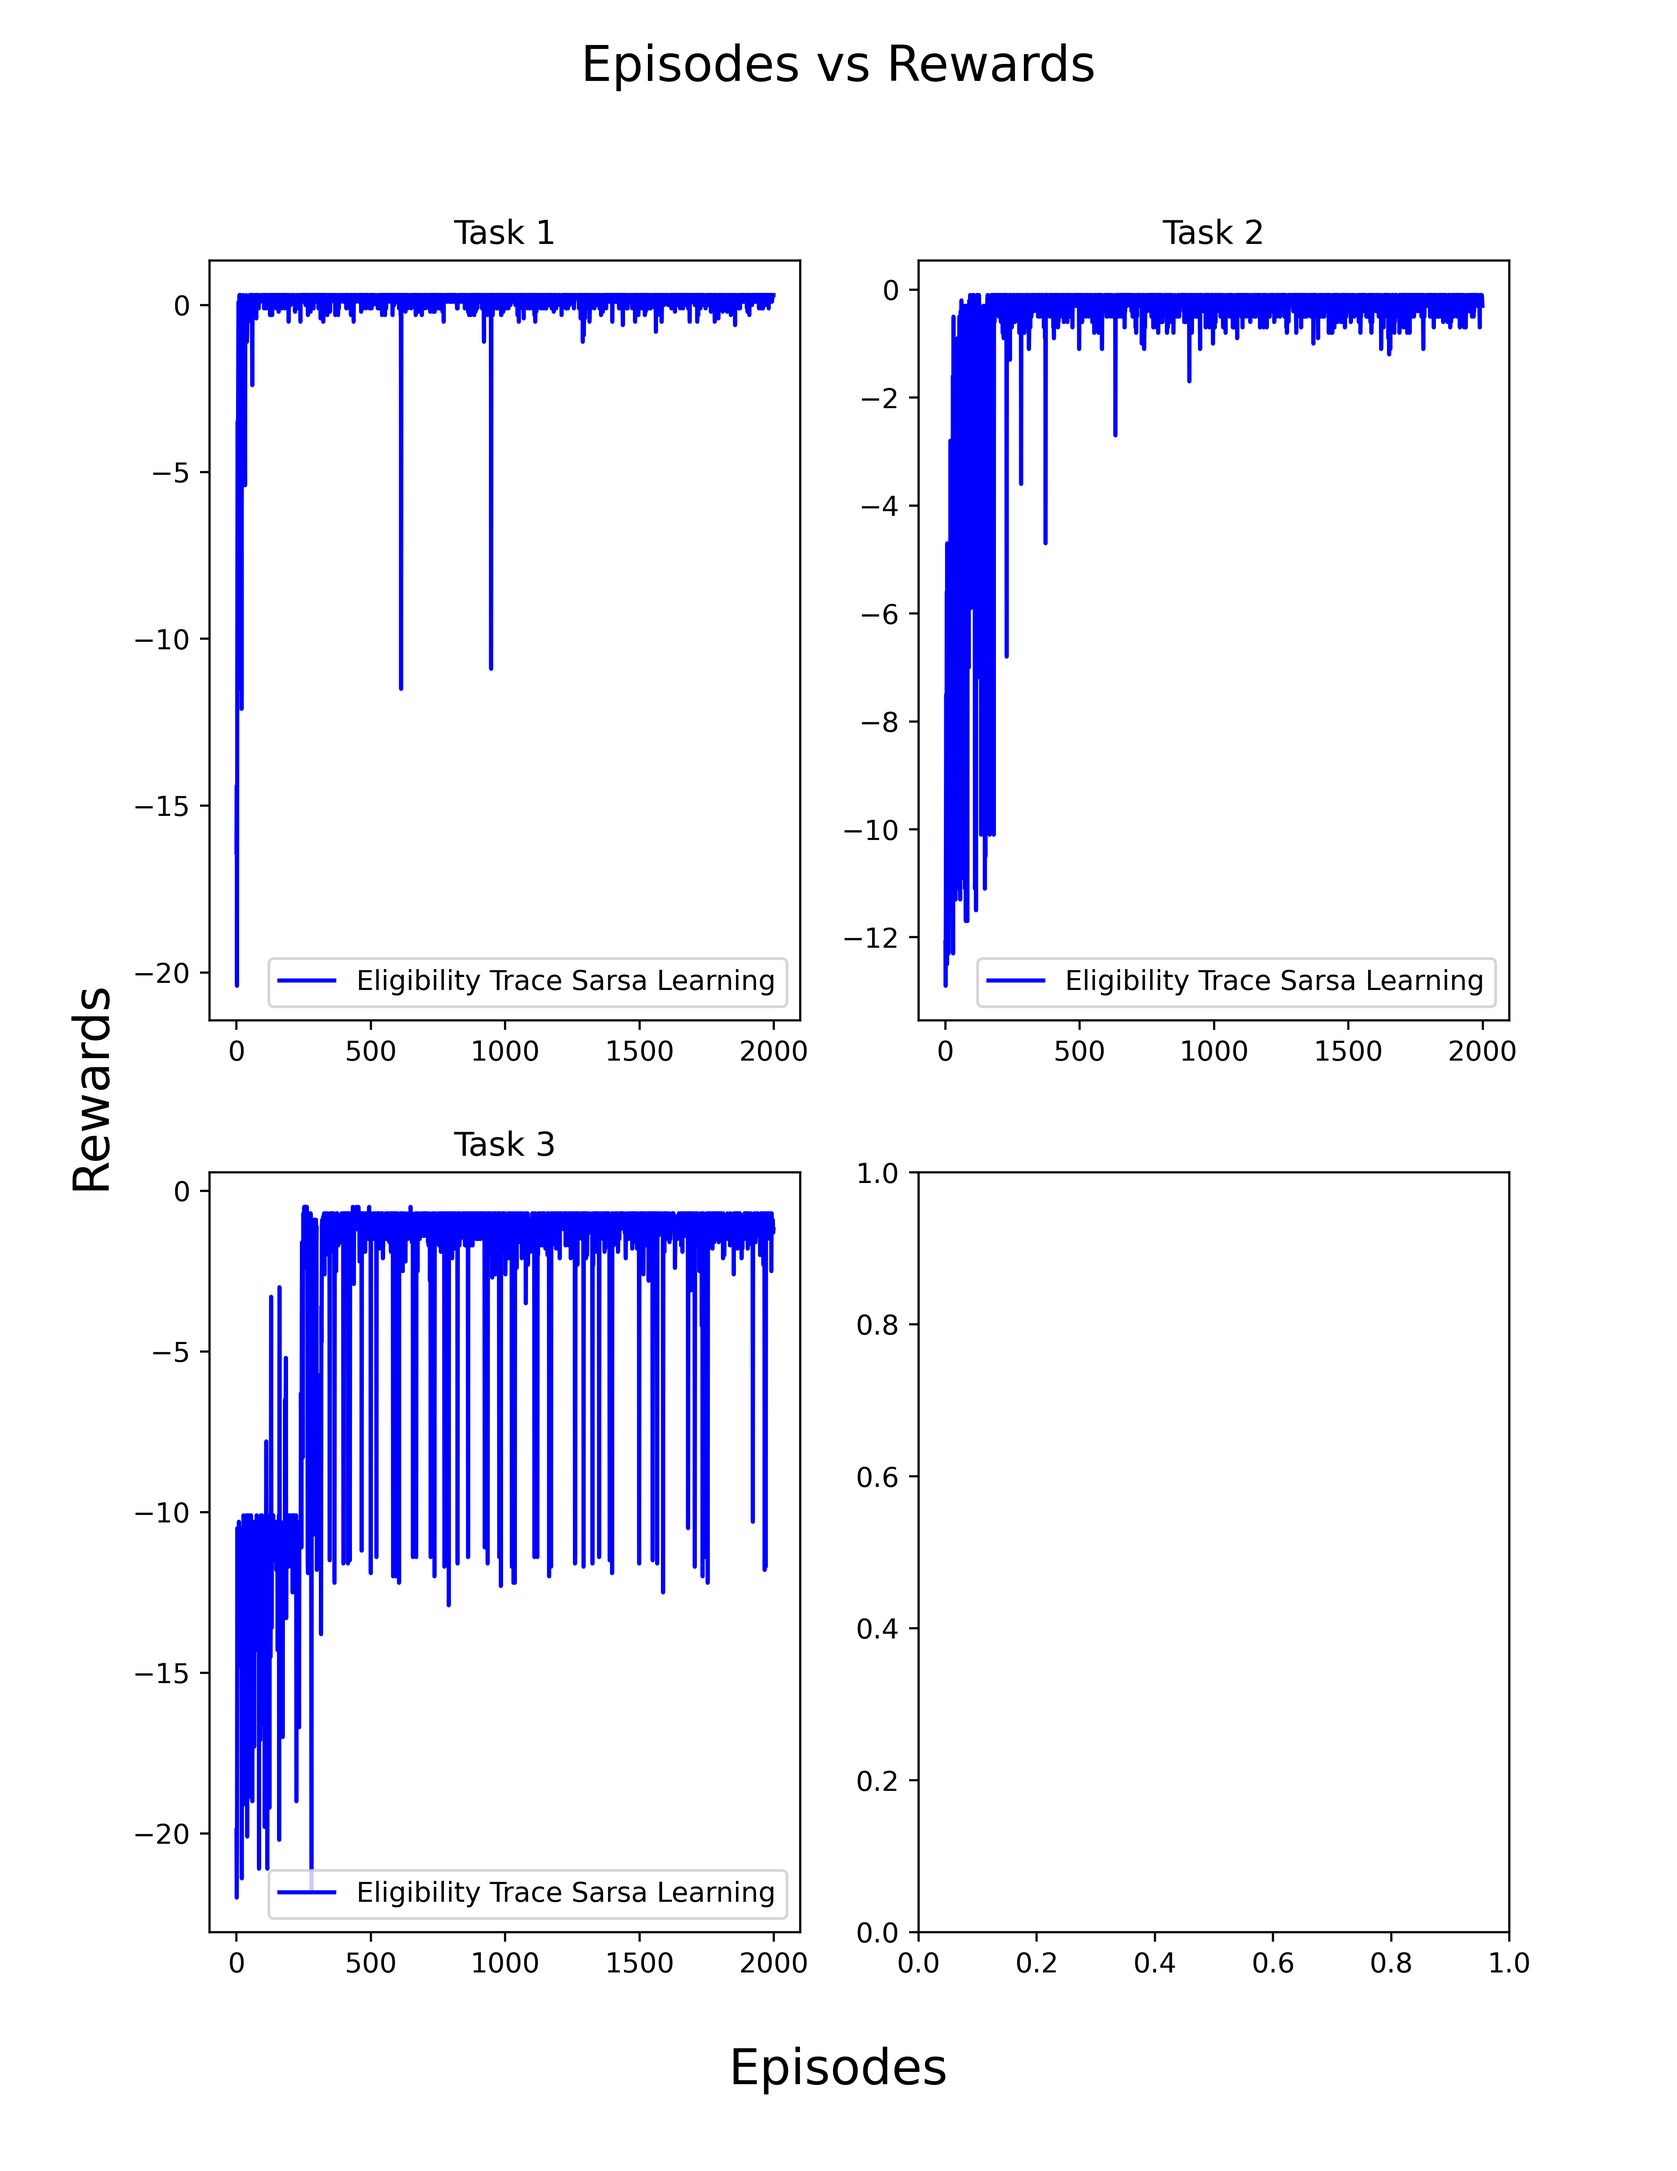
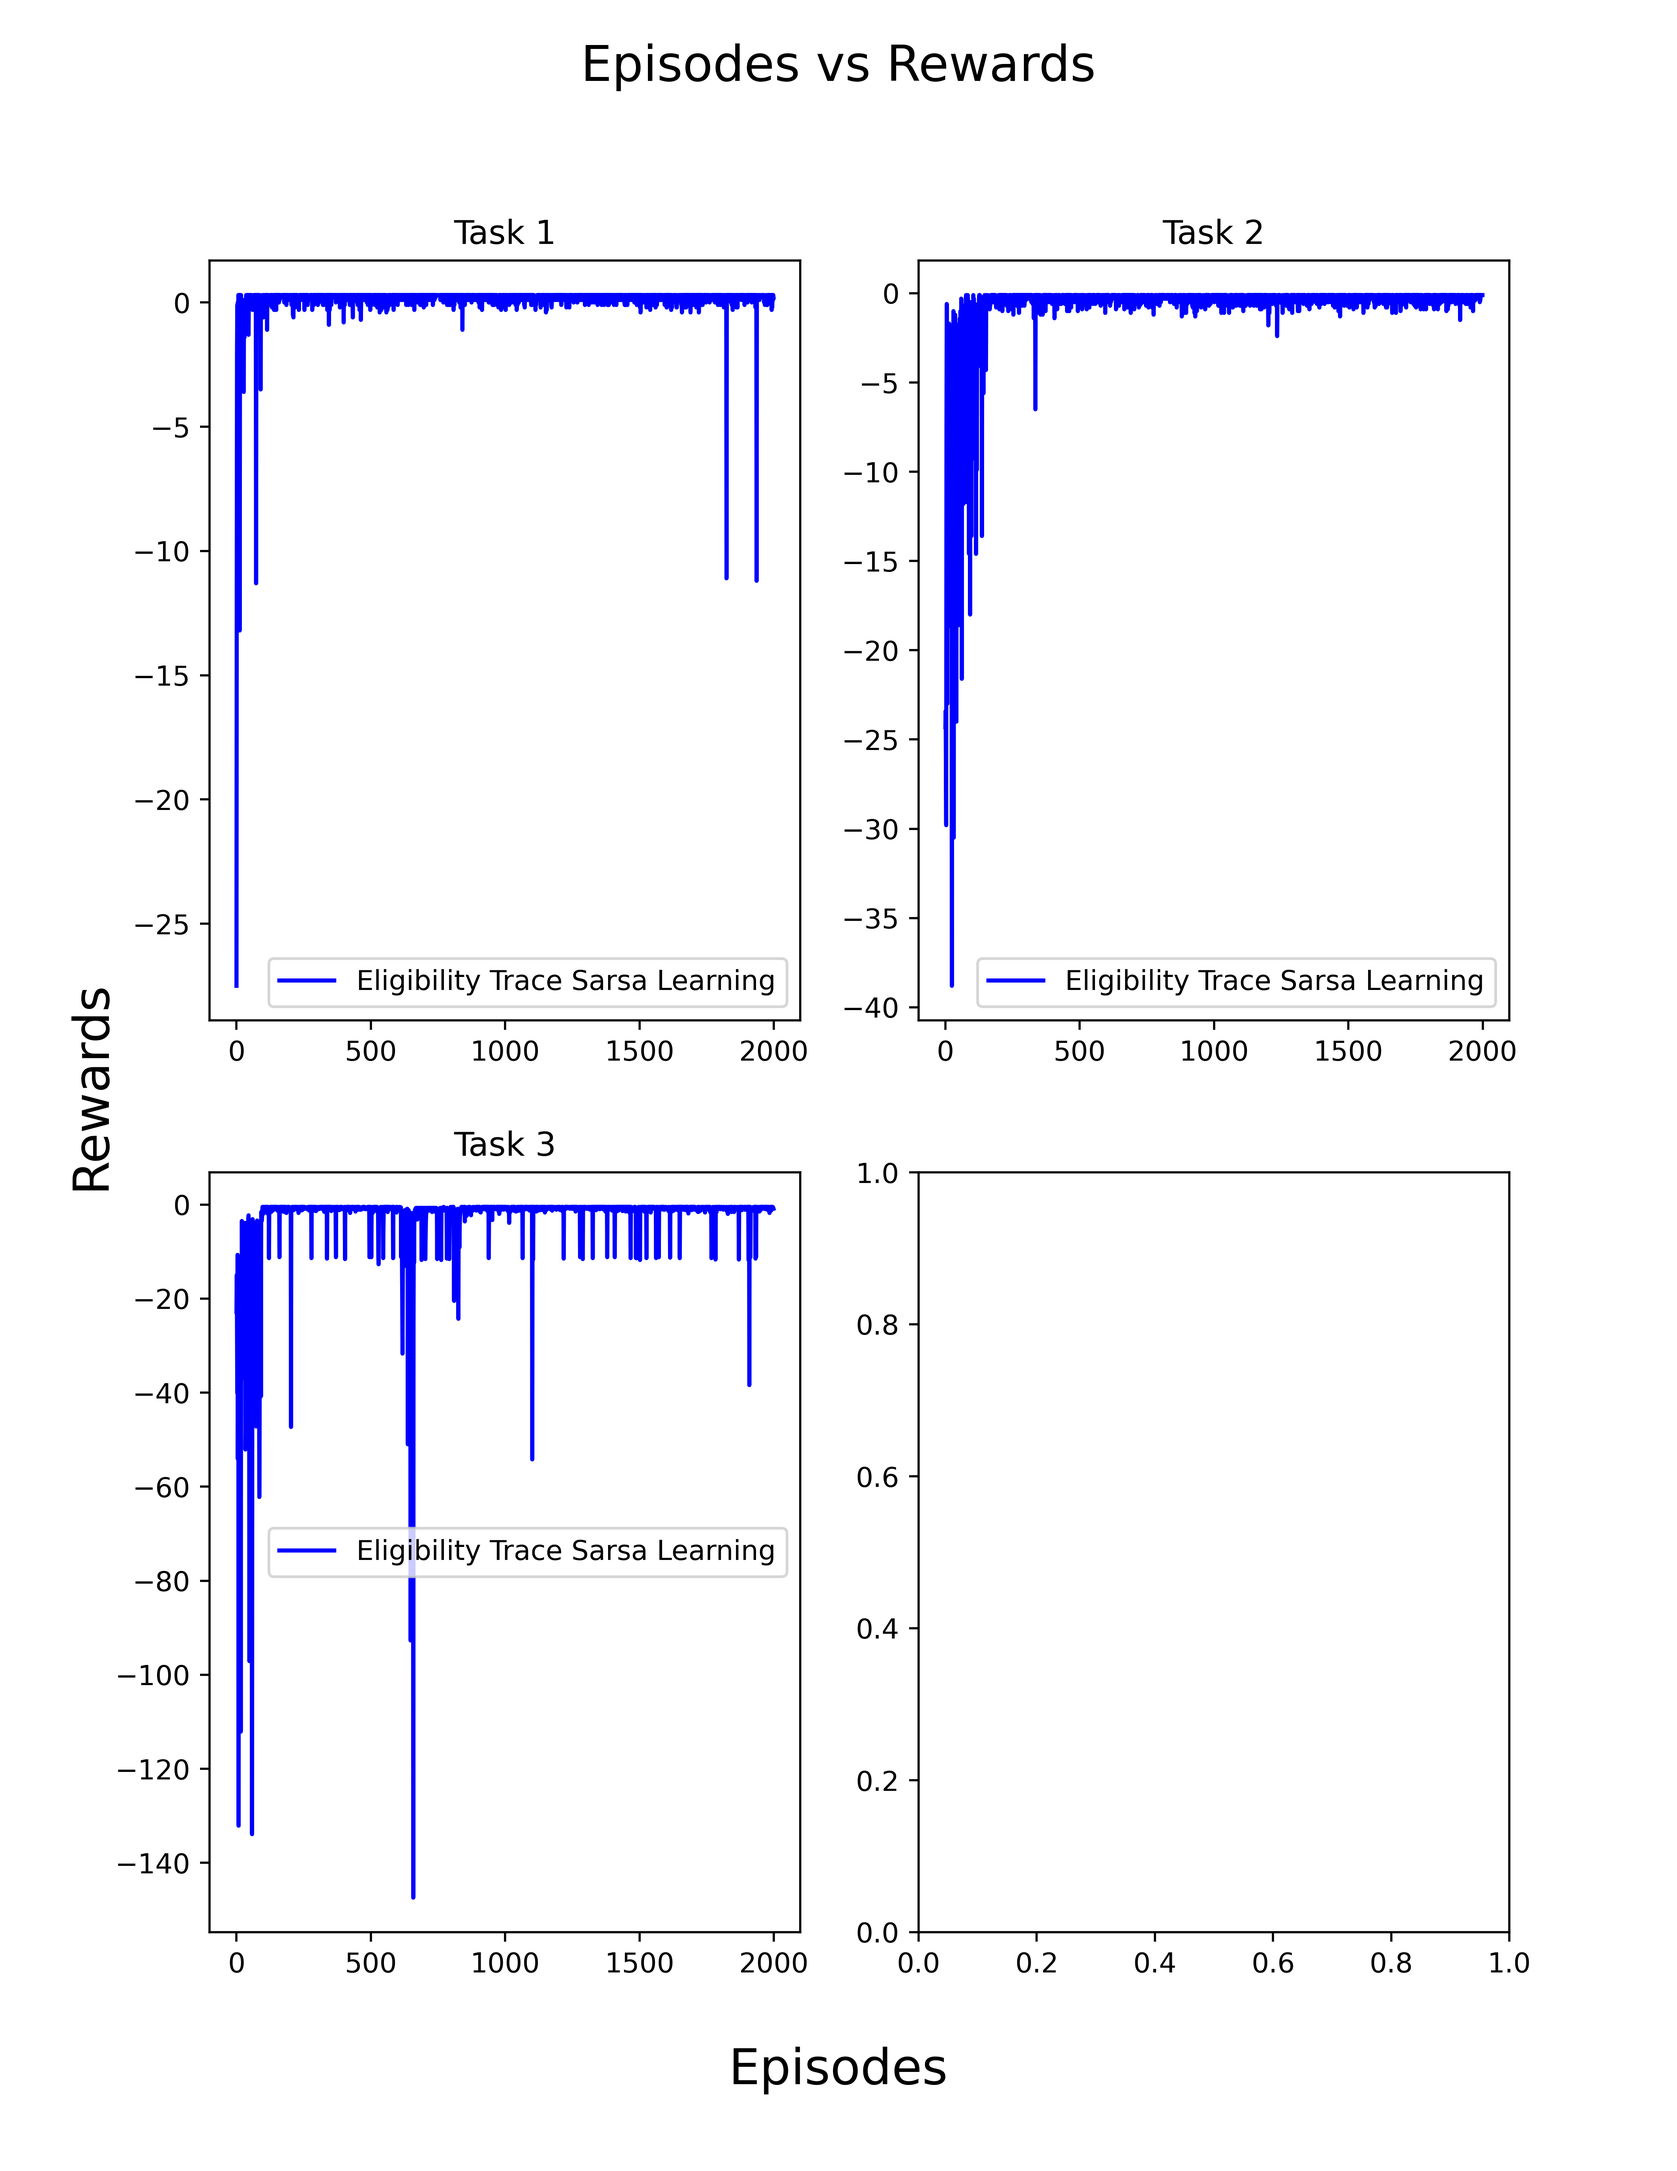
ill do u one better step bro

diff --git a/assignments/grid_world/sim.py b/assignments/grid_world/sim.py
@@ -20,7 +20,7 @@ from dynamic_programming.DP_brain_VI import ValueIteration
 
 
 # showRender = False
-episodes = 2000
+episodes = 5000
 # renderEveryNth = 10000
 # printEveryNth = 10000
 do_plot_rewards = True
@@ -64,55 +64,55 @@ def do_algorithm(rl, task, env):
 
 
 def value_iteration(task):
-    env = Maze(agentXY, goalXY, tasks[task][0], tasks[task][1])
+    env = Maze(agentXY, goalXY, tasks[task][0], tasks[task][1], title=f"Value Iteration task {task}")
     rl = ValueIteration(list(range(env.n_actions)), env)
     do_algorithm(rl, task, env)
 
 
 def policy_iteration(task):
-    env = Maze(agentXY, goalXY, tasks[task][0], tasks[task][1])
+    env = Maze(agentXY, goalXY, tasks[task][0], tasks[task][1], title=f"Policy Iteration task {task}")
     rl = PolicyIteration(list(range(env.n_actions)), env)
     do_algorithm(rl, task, env)
 
 
 def sarsa_learning(task):
-    env = Maze(agentXY, goalXY, tasks[task][0], tasks[task][1])
+    env = Maze(agentXY, goalXY, tasks[task][0], tasks[task][1], title=f"Sarsa Learning task {task}")
     rl = SarsaLearning(list(range(env.n_actions)))
     do_algorithm(rl, task, env)
 
 
 def expected_sarsa_learning(task):
-    env = Maze(agentXY, goalXY, tasks[task][0], tasks[task][1])
+    env = Maze(agentXY, goalXY, tasks[task][0], tasks[task][1], title=f"Expected Sarsa Learning task {task}")
     rl = ExpectedSarsaLearning(list(range(env.n_actions)))
     do_algorithm(rl, task, env)
 
 
 def q_learning(task):
-    env = Maze(agentXY, goalXY, tasks[task][0], tasks[task][1])
+    env = Maze(agentXY, goalXY, tasks[task][0], tasks[task][1], title=f"Q Learning task {task}")
     rl = QLearning(list(range(env.n_actions)))
     do_algorithm(rl, task, env)
 
 
 def double_q_learning(task):
-    env = Maze(agentXY, goalXY, tasks[task][0], tasks[task][1])
+    env = Maze(agentXY, goalXY, tasks[task][0], tasks[task][1], title=f"Double Q Learning task {task}")
     rl = DoubleQLearning(list(range(env.n_actions)))
     do_algorithm(rl, task, env)
 
 def eligibility_trace_learning(task):
-    env = Maze(agentXY, goalXY, tasks[task][0], tasks[task][1])
+    env = Maze(agentXY, goalXY, tasks[task][0], tasks[task][1], title=f"Eligibility Trace Learning task {task}")
     rl = EligibilityTraceSarsaLearning(list(range(env.n_actions)))
     do_algorithm(rl, task, env)
 
 
 def policy_gradient_learning(task):
-    env = Maze(agentXY, goalXY, tasks[task][0], tasks[task][1])
+    env = Maze(agentXY, goalXY, tasks[task][0], tasks[task][1], title=f"Policy Gradient Learning task {task}")
     rl = PolicyGradientLearning(list(range(env.n_actions)))
     do_algorithm(rl, task, env)
 
 
 # algos = [policy_gradient_learning]
 
-algos = [eligibility_trace_learning, double_q_learning, policy_gradient_learning]
+algos = [sarsa_learning, q_learning, expected_sarsa_learning, eligibility_trace_learning, double_q_learning, policy_gradient_learning]
 
 
 def run(method, task_num):
@@ -153,4 +153,4 @@ if(do_plot_rewards):
     # Simple plot of return for each episode and algorithm, you can make more informative plots
     if len(sys.argv) > 1:
         plot_rewards(experiments, algos[int(sys.argv[1])].__name__)
-        plot_individual_plots(experiments)
+        # plot_individual_plots(experiments)

diff --git a/assignments/grid_world/monte_carlo/MC_policy_gradient.py b/assignments/grid_world/monte_carlo/MC_policy_gradient.py
@@ -4,6 +4,7 @@ from ast import literal_eval
 import numpy as np
 from math import exp
 
+np.random.seed(10)
 
 class PolicyGradientLearning(MonteCarloAlgorithm):
     def __init__(self, actions,
@@ -50,9 +51,11 @@ class PolicyGradientLearning(MonteCarloAlgorithm):
 
     def update(self, states, actions, rewards):
         discounted_rewards = self.discounted_rewards(rewards)
-        for state, action, reward in zip(states,actions,rewards):
+        t = 0
+        for state, action, reward in zip(states,actions,discounted_rewards):
             grad_ln_pi = self.features(state, action) - sum([self.policy(b,state)*self.features(state,b) for b in range(self.num_actions)])
-            self.theta = self.theta + self.lr*reward * grad_ln_pi
+            self.theta = self.theta + self.lr*(self.dr ** t)*reward * grad_ln_pi
+            t += 1
 
     def policy(self, action, observation):
         def h(a):

diff --git a/assignments/grid_world/maze_env.py b/assignments/grid_world/maze_env.py
@@ -16,7 +16,7 @@ origin = np.array([UNIT/2, UNIT/2])
 
 
 class Maze(tk.Tk, object):
-    def __init__(self, agentXY, goalXY, walls=[], pits=[]):
+    def __init__(self, agentXY, goalXY, walls=[], pits=[], title = 'Maze'):
         super(Maze, self).__init__()
         self.action_space = ['u', 'd', 'l', 'r']
         self.n_actions = len(self.action_space)
@@ -25,7 +25,7 @@ class Maze(tk.Tk, object):
         self.UNIT = 40   # pixels per cell (width and height)
         self.MAZE_H = 10  # height of the entire grid in cells
         self.MAZE_W = 10  # width of the entire grid in cells
-        self.title('maze')
+        self.title(title)
         self.geometry('{0}x{1}'.format(MAZE_H * UNIT, MAZE_W * UNIT))
         self.build_shape_maze(agentXY, goalXY, walls, pits)
 

diff --git a/assignments/grid_world/learning_algorithms/RL_brain_expected_sarsa.py b/assignments/grid_world/learning_algorithms/RL_brain_expected_sarsa.py
@@ -5,16 +5,14 @@ import maze_env
 
 class ExpectedSarsaLearning():
     def __init__(self, actions,
-                 learning_rate=0.01,
+                 learning_rate=0.015,
                  discount_rate=0.9,
-                 epsilon=0.1,
-                 debug=True,):
+                 epsilon=0.1):
         self.display_name = "Expected Sarsa Learning"
         self.actions = actions
         self.lr = learning_rate
         self.dr = discount_rate
         self.q = {}
-        self.debug = debug
         self.epsilon = epsilon
 
     def choose_action(self, observation):

diff --git a/assignments/grid_world/run_main.py b/assignments/grid_world/run_main.py
@@ -67,7 +67,9 @@ def update(env, RL, data,
             state, action = RL.learn(str(state), action, reward, str(state_))
 
             # break while loop when end of this episode
-            if done or len(rewards) > 100:
+            # if len(rewards) > 100:
+            #     break
+            if done:
                 if isinstance(RL, MonteCarloAlgorithm):
                     RL.update(states, actions, rewards)
                 break
